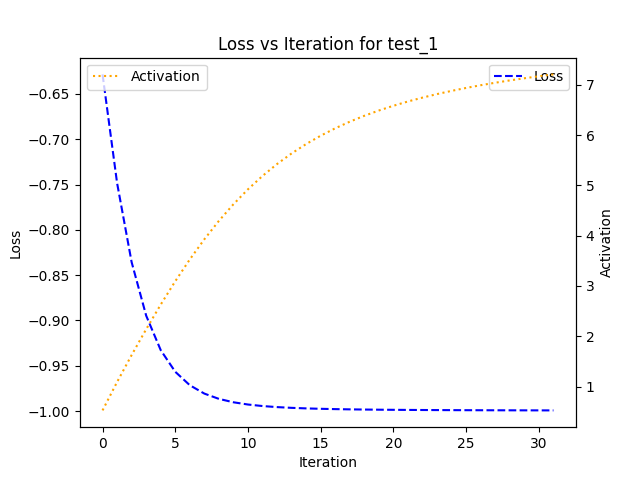
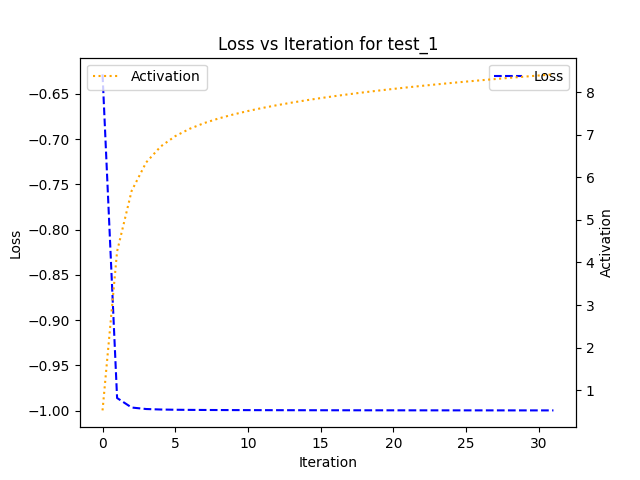
fix experiment in light of defaults changing

diff --git a/src/deep_dream_llm/final_experiments.py b/src/deep_dream_llm/final_experiments.py
@@ -57,7 +57,8 @@ def experiment_0(args):
     # epochs to plot
     epochs_to_plot = [10, 32, 64, 128, 256]
     latent_dims, losses_total = {}, {}
-    for latent_dim in tqdm(range(1, 102, 10), desc="Latent Dims"):
+    latent_dims_to_try = [1, 2, 3, 4, 6, 8, 10, 20, 30, 40, 50, 60, 70, 80, 90, 100]
+    for latent_dim in tqdm(latent_dims_to_try, desc="Latent Dims"):
         batch_size = 1
         cfg = config.TrainingConfig(
             autoencoder_name="LinearAutoEncoder",
@@ -114,32 +115,45 @@ def plot_0(losses, latent_dims, plot_name):
 def experiment_1(args):
     """
     Trains a complete autoencoder.
-    TODO Complete this function
     """
     cfg = config.TrainingConfig(
         autoencoder_name="LinearAutoEncoder",
-        latent_dim=latent_dim,
+        latent_dim=20,
         # load_path=LOAD_PATH,
         # autoencoder=autoencoder,
         learning_rate=1e-4,
         use_openai=False,
         # lr_scheduler=lr_scheduler,
         is_notebook=False,
-        batch_size=batch_size,
+        batch_size=1,
     )
     trainer = DeepDreamLLMTrainer(cfg)
+    n_epochs = 256
+    (
+        losses,
+        openai_losses,
+        reencode_losses,
+        sentences,
+        reconstructed_sentences,
+    ) = trainer.train_autoencoder(
+        num_epochs=n_epochs,
+        print_every=100000,
+        save_path="Checkpoints/linear_testing.pt",
+        num_sentences=n_epochs,
+    )
 
 
 def experiment_2(args):
     """
     Optimizes random sentences for 10 neurons across all 6 mlp layers in GPT2.
+    #pylint: disable=too-many-locals
     """
     DEBUG_MODE = False
     TEXT_OUTPUT_PATH = "experiments/demo/optimized_sentences_TAE_l20_l8_h8.json"
     TRY_BATCHED_OPTIMIZATION = False
     model = AutoModelForCausalLM.from_pretrained("distilgpt2")
     tokenizer = AutoTokenizer.from_pretrained("distilgpt2")
-    autoencoder = TAE("distilgpt2", latent_dim=20)
+    autoencoder = TAE("distilgpt2", latent_dim=20, num_layers=8, nhead=8)
     repo_id = "Scottviteri/TransformerAutoencoderLatentDim20"
     model_file_name = "TAE_l20_l8_h8.pt"
     download_path = hf_hub_download(repo_id=repo_id, filename=model_file_name)
@@ -212,6 +226,7 @@ def experiment_2(args):
     # save output_optimized_sentences to a json file
     with open(TEXT_OUTPUT_PATH, "w") as file:
         json.dump(output_optimized_sentences, file)
+    return output_optimized_sentences
 
 
 def experiment_3(args):
@@ -232,8 +247,8 @@ def experiment_3(args):
         autoencoder=autoencoder,
         neuron_index=0,
         layer_num=0,
-        num_iterations=200,
-        learning_rate=0.01,
+        num_iterations=32,
+        learning_rate=0.1,
         activation_stop_threshold=10.0,
         log_all=True,
         verbose=True
